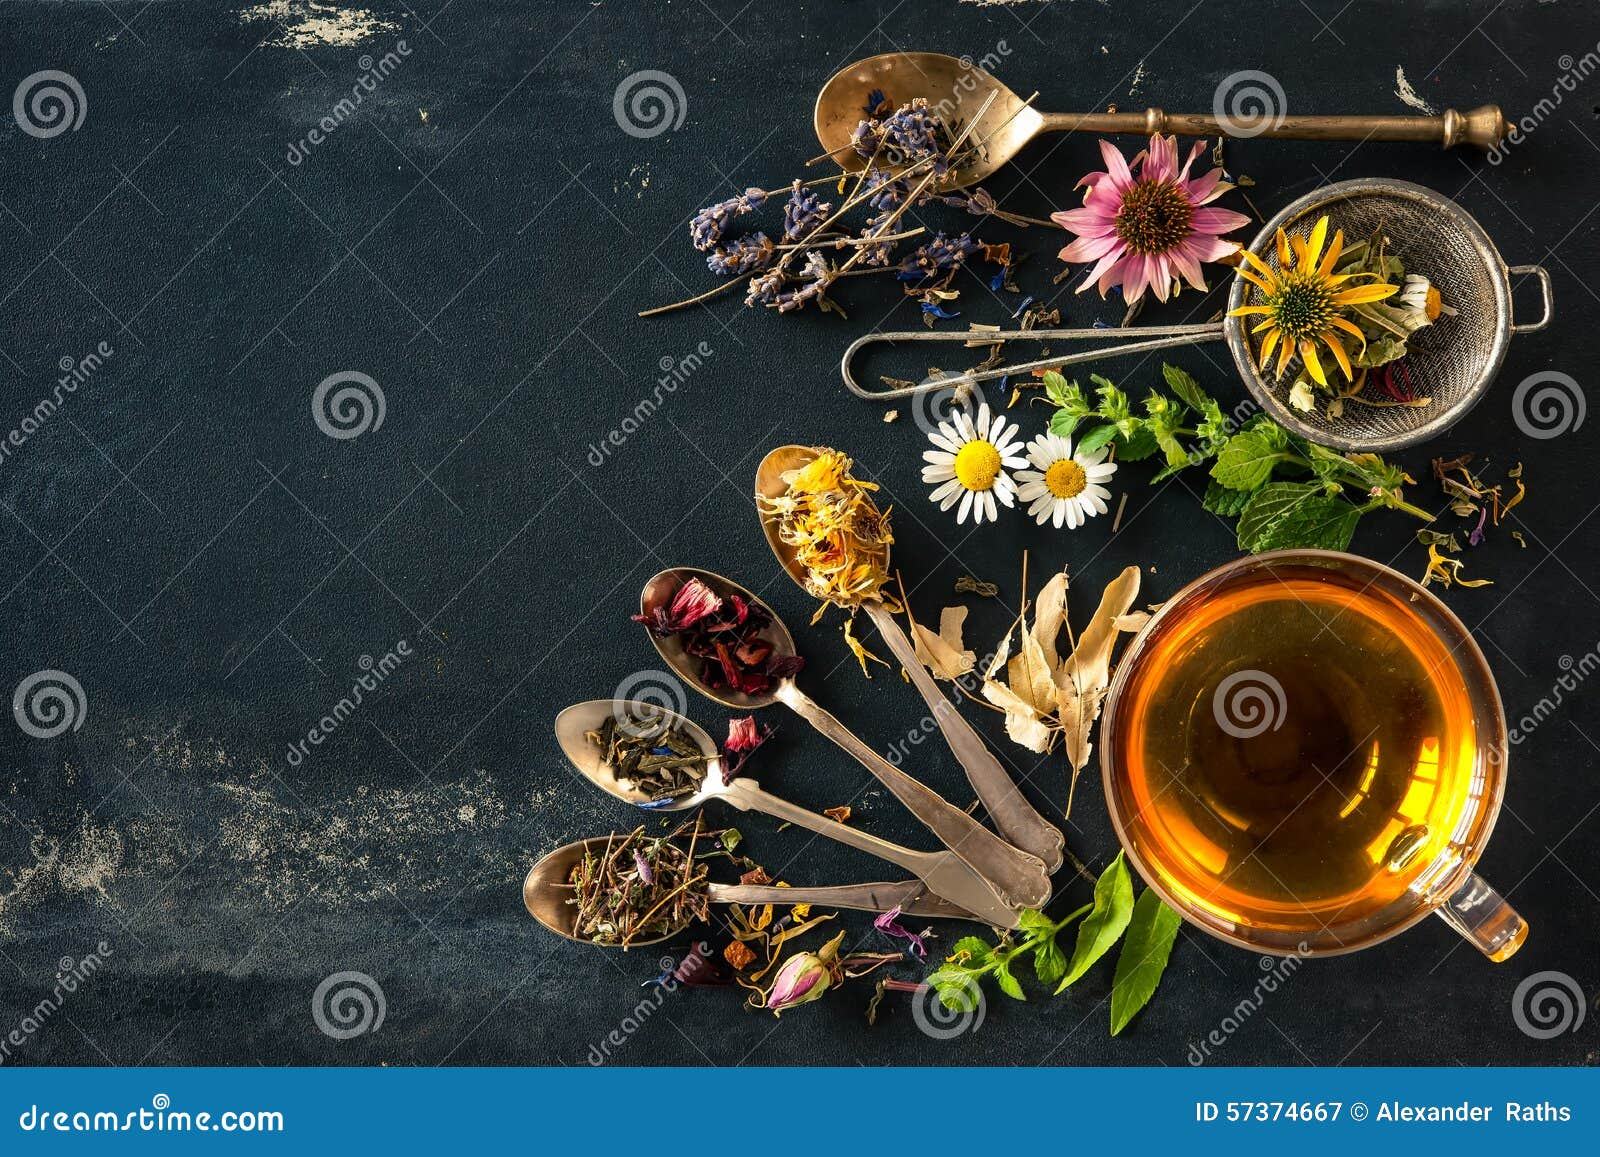
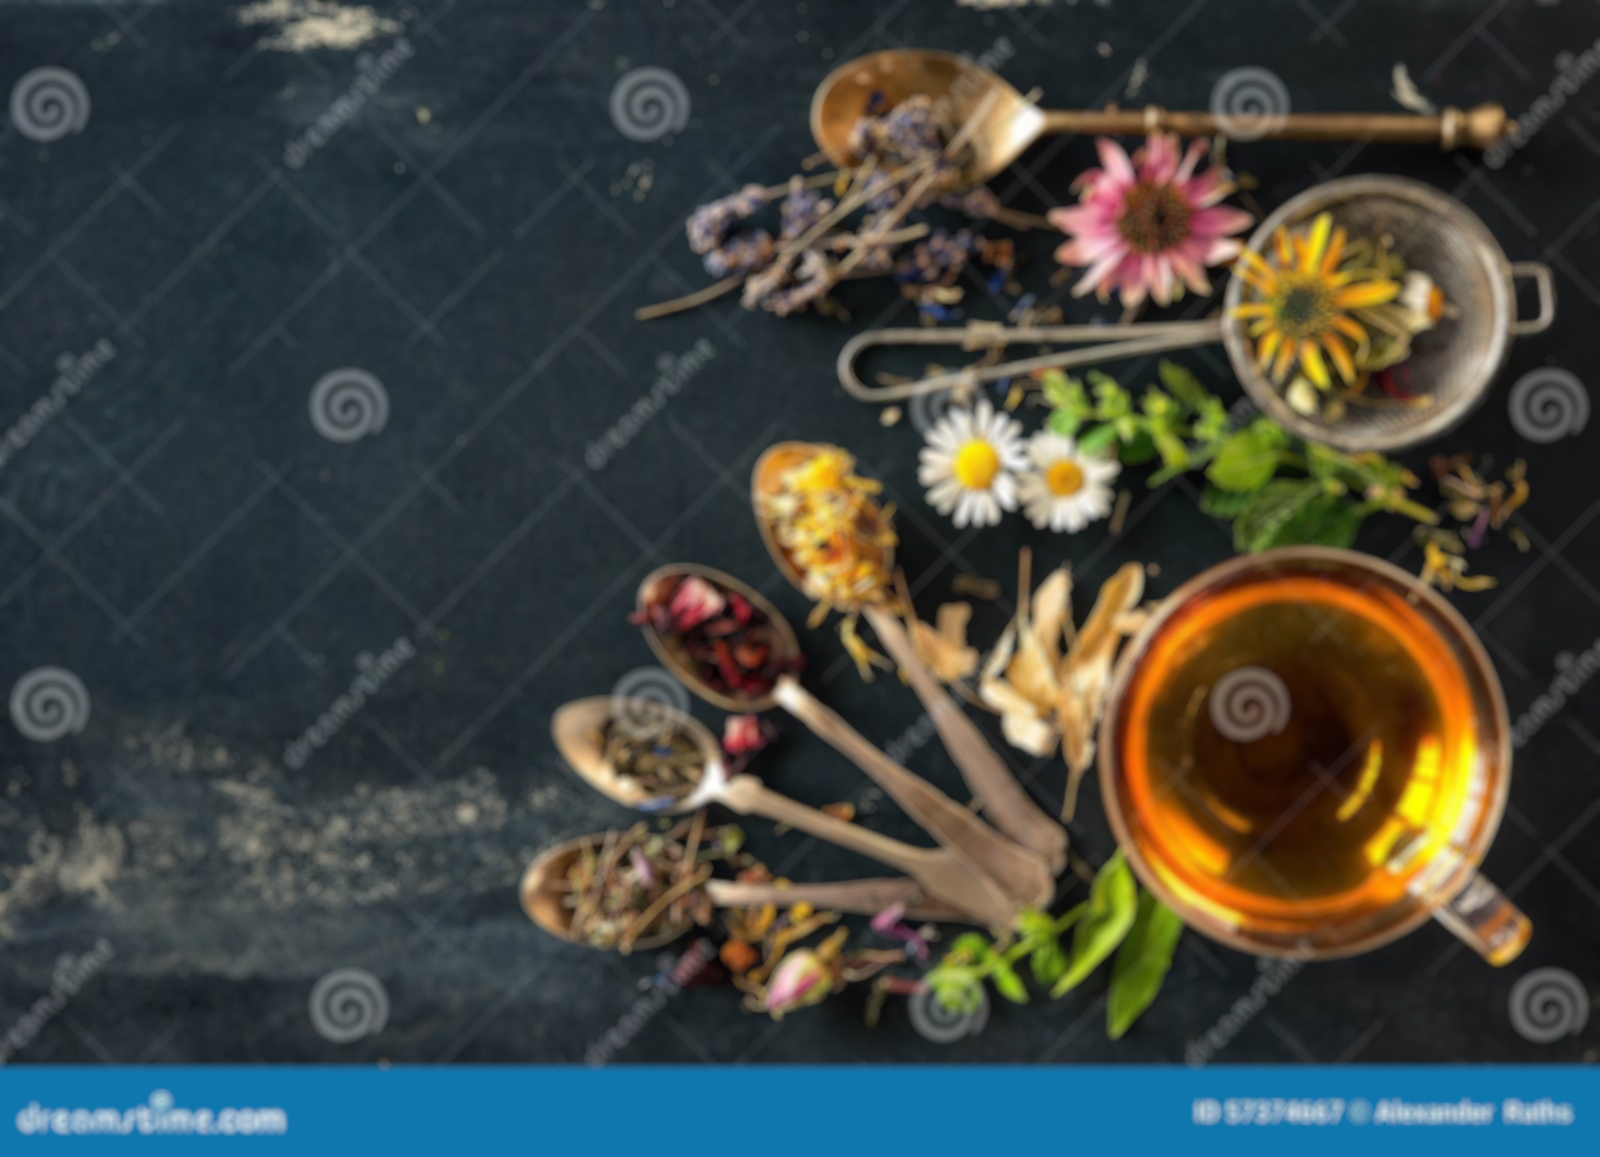
Product landing page: blurred image

Changed region(s): [[0.0, 0.0, 1.0, 0.9957], [0.9688, 0.0311, 1.0, 0.0933]]

diff --git a/product-landing-page/styles.css b/product-landing-page/styles.css
@@ -10,6 +10,9 @@ body {
     /* slide it down a bit */
     padding-top: 60px;
     font-family: 'Montserrat', sans-serif, 'Segoe UI', Tahoma, Geneva, Verdana;
+    background-image: url('https://raw.githubusercontent.com/istamosh/responsive-web-design/master/product-landing-page/src/herbal-tea-cup-wild-flowers-various-herbs-57374667.jpg');
+    background-attachment: fixed;
+    background-size: auto;
 }
 #header {
     display: flex;
